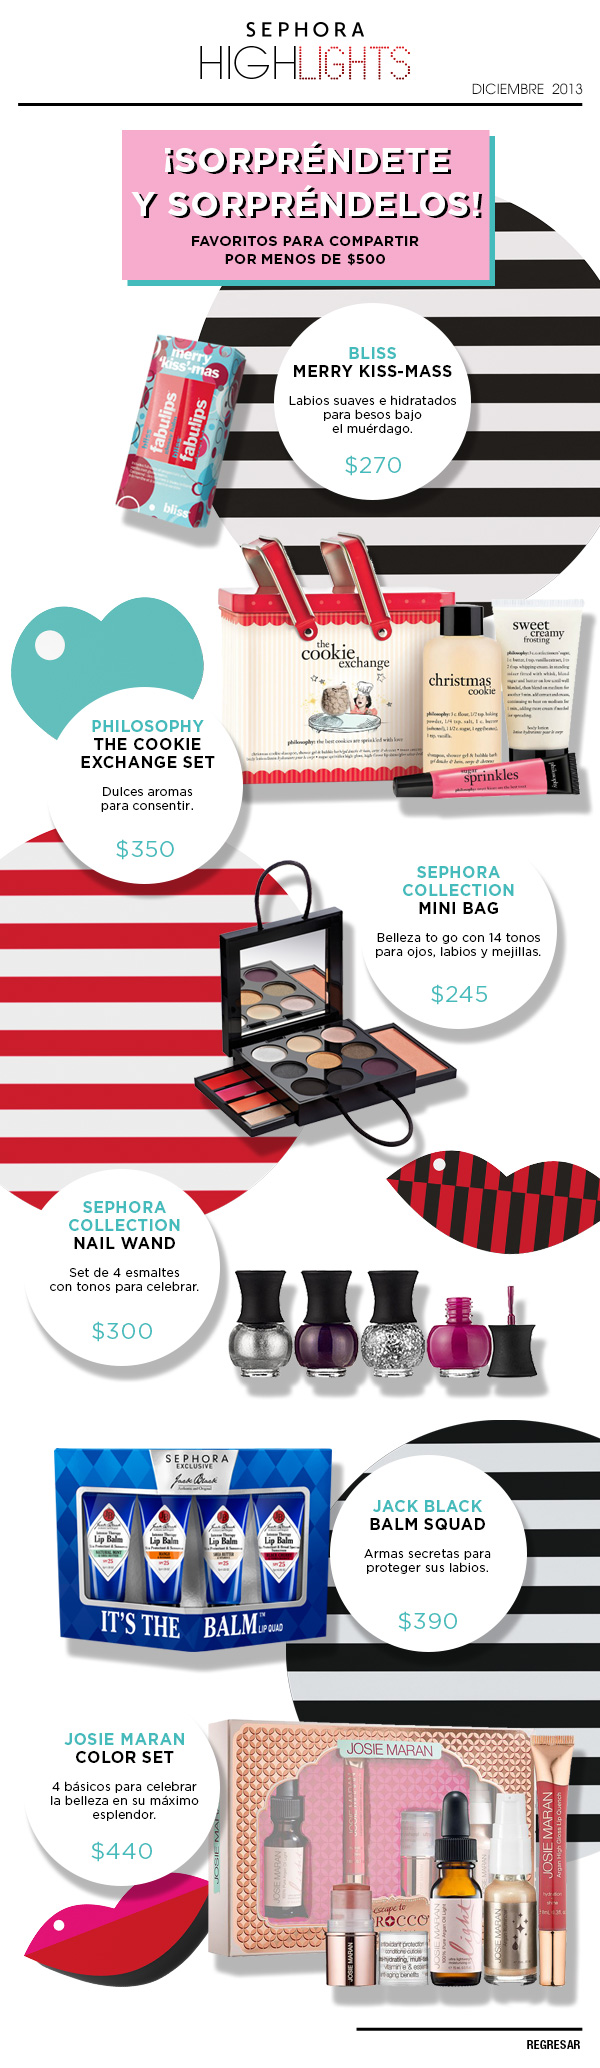
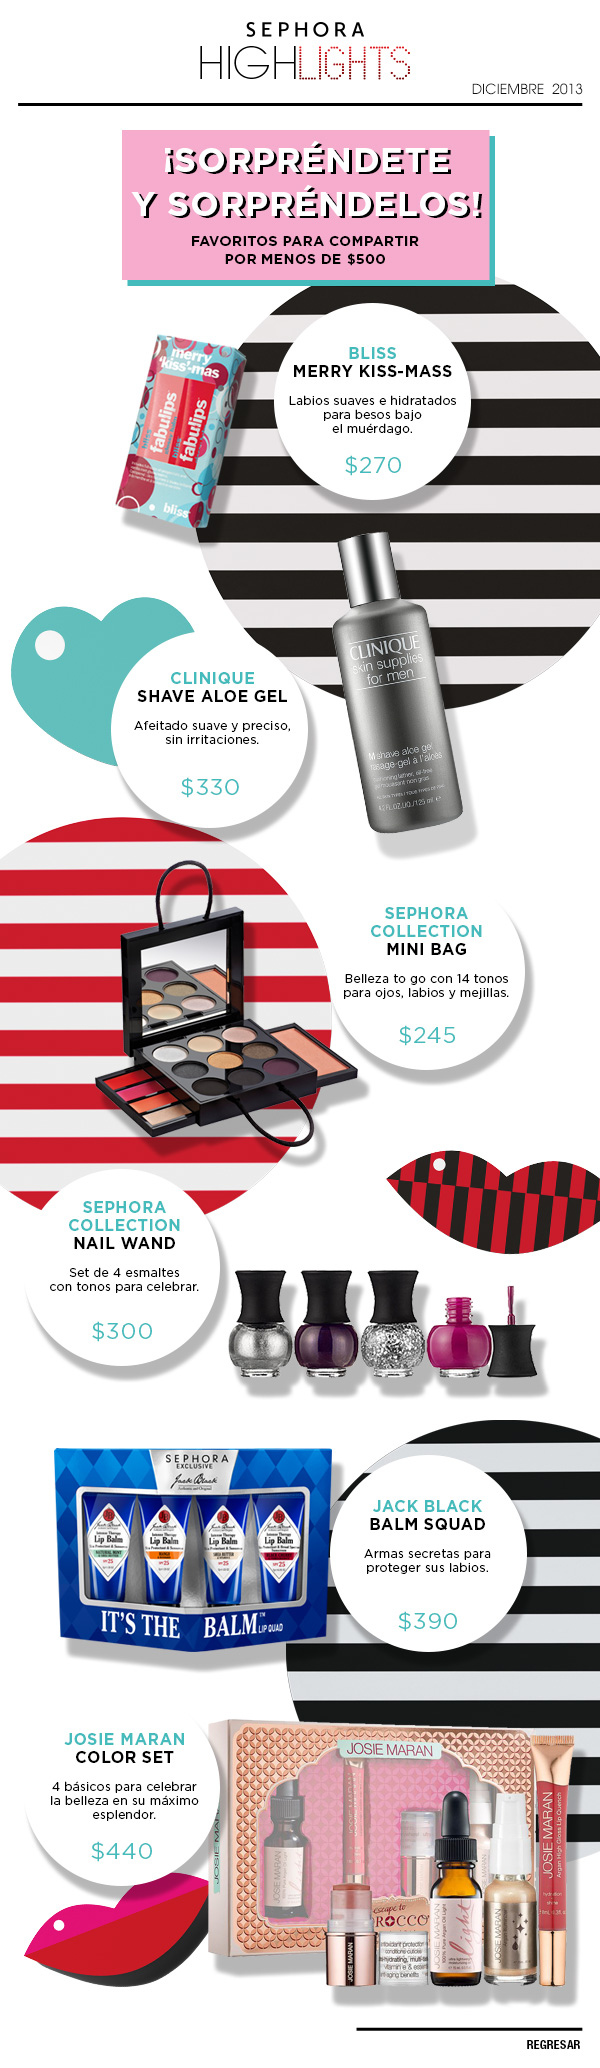
Ajustes promocion menos de 500 lucas

Changed region(s): [[0.09, 0.0928, 1.0, 0.588]]

diff --git a/public/mailings/122013/hl/menos500/index.html b/public/mailings/122013/hl/menos500/index.html
@@ -38,7 +38,7 @@
 <div style="width:600;margin:0 auto">
     <div class="fb-like" data-href="http://sephora.com.mx/sh/jul2k12/" data-send="true" data-width="450" data-show-faces="false"></div>
 <img src="menos500.jpg" alt="Sorpréndete y sorpréndelos" width="600" height="2068" usemap="#nota_satelite" border="0">
-    <map name="nota_satelite"><area shape="circle" coords="122,1792,98" href="http://sephora.com.mx/producto/holiday-color-set-2013-879634004254" target="_blank"><area shape="circle" coords="428,1553,98" href="http://sephora.com.mx/producto/balm-squad-682223030325" target="_blank"><area shape="circle" coords="122,1268,98" href="http://sephora.com.mx/producto/nail-wand-3378872071488" target="_blank"><area shape="circle" coords="460,934,98" href="http://sephora.com.mx/producto/bling-mini-bag-h12-3378872071181" target="_blank"><area shape="circle" coords="145,786,98" href="http://sephora.com.mx/producto/cookie-exchange-604079102827" target="_blank">
+    <map name="nota_satelite"><area shape="circle" coords="122,1792,98" href="http://sephora.com.mx/producto/holiday-color-set-2013-879634004254" target="_blank"><area shape="circle" coords="428,1553,98" href="http://sephora.com.mx/producto/balm-squad-682223030325" target="_blank"><area shape="circle" coords="122,1268,98" href="http://sephora.com.mx/producto/nail-wand-3378872071488" target="_blank"><area shape="circle" coords="427,972,98" href="http://sephora.com.mx/producto/bling-mini-bag-h12-3378872071181" target="_blank"><area shape="circle" coords="209,730,98" href="http://sephora.com.mx/producto/m-shave-aloe-gel-51201-020714008741" target="_blank">
       <area shape="rect" coords="522,2031,584,2058" href="http://sephora.com.mx/mailings/122013/hl/home/index.html">
       <area shape="poly" coords="27,815,203,813" href="#">
       <area shape="circle" coords="372,402,98" href="http://sephora.com.mx/producto/merry-kiss-mass-651043071375" target="_blank">
